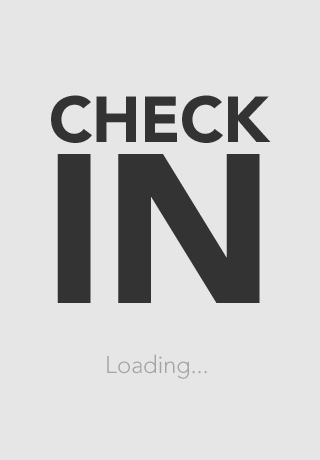
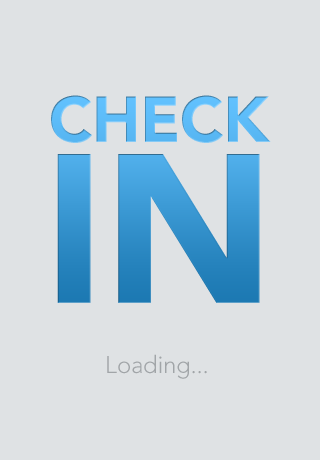
first shot at blue styling

Changed region(s): [[0.1562, 0.1826, 0.8438, 0.6696]]

diff --git a/public/css/style.css b/public/css/style.css
@@ -81,7 +81,7 @@ a:hover { color: #036; }
 
 body { -webkit-user-select: none; }
 
-header { background: #444; }
+header { background: #c3c7ca; }
 
 header h1 {
   color: #fff;
@@ -89,13 +89,48 @@ header h1 {
       linear,
       left top,
       left bottom,
-      color-stop(0, #434343),
-      color-stop(1, #232323)
+      color-stop(0, #419fda),
+      color-stop(0.5, #3790c7),
+      color-stop(0.5, #2386c4),
+      color-stop(1, #1c78b2)
   );
-  font-size: 22px;
+  font-size: 24px;
   line-height: 56px;
   text-align: center;
+  text-shadow: -1px -1px 0 #106091;
 }
+
+
+/*-- NAVIGATION --*/
+
+nav ul { text-align: center; }
+
+  nav ul li {
+    display: inline-block;
+    line-height: 32px;
+    text-align: center;
+    color: #efefef;
+    background: #a8adb0;
+    width: 30%;
+    font-size: 14px;
+    font-weight: bold;
+    margin-right: 1%;
+    margin-top: 0;
+    margin-bottom: 8px;
+    border-bottom-left-radius: 4px;
+    border-bottom-right-radius: 4px;
+    overflow: visible;
+  }
+  
+  nav ul li:last-child {margin-right: 0;}
+
+  nav ul li.active { 
+    color: #fff; 
+    background: #1c78b2; 
+    text-shadow: -1px -1px 0 #176ca1;
+    box-shadow: 0px 0px 3px #000;
+  }
+
 
 #main { position: relative; }
 
@@ -161,38 +196,11 @@ div.spinner div.bar8 {
 }
 
 
-/*-- NAVIGATION --*/
-
-nav ul { text-align: center; }
-
-  nav ul li {
-    display: inline-block;
-    line-height: 32px;
-    text-align: center;
-    color: #efefef;
-    background: #5d5d5d;
-    width: 30%;
-    font-size: 14px;
-    font-weight: bold;
-    margin-right: 1%;
-    margin-top: 0;
-    margin-bottom: 8px;
-    border-bottom-left-radius: 4px;
-    border-bottom-right-radius: 4px;
-  }
-  
-  nav ul li:last-child {margin-right: 0;}
-
-  nav ul li.active { 
-    background: #232323; 
-  }
-
-
 /*-- SEARCH AND SEARCH RESULTS --*/
 
 #search {
   padding: 6px 0;
-  background: #fbb03b;
+  background: #2386c4;
   text-align: center;
 }
 
@@ -204,7 +212,7 @@ nav ul { text-align: center; }
     line-height: 26px;
     background: #f9f9f9 url('../images/search32.png') no-repeat 10px center;
     -webkit-background-size: 16px 16px;
-    border: 1px solid #e99f2d;
+    border: 1px solid #2386c4;
     border-radius: 14px;
     padding: 0 12px 0 30px;
   }
@@ -284,11 +292,11 @@ ul.scope {
     display: inline-block;
     font-size: 12px;
     line-height: 36px;
-    background: #fbb03b;
-    color: #333;
+    background: #2386c4;
+    color: #fff;
     font-weight: bold;
     padding-left: 12px;
-    text-shadow: 1px 1px 0 #f7be65;
+    text-shadow: -1px -1px 0 #1c78b2;
     -webkit-box-shadow: 1px 1px 3px rgba(1,1,1,0.4);
     border-top-right-radius: 8px;
     border-bottom-right-radius: 8px;
@@ -297,7 +305,7 @@ ul.scope {
     ul.scope li .reset {
       display: inline-block; 
       float: right; 
-      color: #efefef;
+      color: #333;
       margin-left: 10px;
       text-transform: lowercase;
       font-size: 16px;
@@ -307,7 +315,7 @@ ul.scope {
       text-align: center;
     }
     
-    ul.scope li .reset.pressed { color: #333; }
+    ul.scope li .reset.pressed { color: #fff; }
 
 
 /*-- FULL-WIDTH LIST -*/
@@ -384,7 +392,7 @@ ul.wide_list {
   }
   
   ul.wide_list li .drawer {
-    background: #222;
+    background: #333;
     display: none;
     margin-left: -10px;
     padding: 0 20px;
@@ -403,9 +411,9 @@ ul.wide_list {
       border-radius: 6px;
       border: 1px solid #000;
       font-weight: bold;
-      line-height: 28px;
+      line-height: 30px;
       margin: 12px 0 12px 20px;
-      width: 86px;
+      width: 90px;
       text-align: center;
       font-size: 13px;
       text-shadow: 1px 1px 0 #eee;
@@ -479,11 +487,11 @@ ul.wide_list {
 h2 {
   font-size: 18px;
   line-height: 32px;
-  color: #efefef;
-  background: #333;
+  color: #fff;
+  background: #2386c4;
   width: 100%;
   text-indent: 8px;
-  /*text-transform: uppercase;*/
+  text-shadow: -1px -1px 0 #1c78b2;
 }
 
 #stats {
@@ -495,15 +503,15 @@ h2 {
 /*- SCHEDULE -*/
 
 #schedule_wrapper {
-  width: 320px;
+  width: 318px;
   border-left: 1px solid #333;
   border-right: 1px solid #333;
 }
 
 h3 {
-  color: #333;
+  color: #efefef;
   line-height: 24px;
-  background: #fbb03b;
+  background: #333;
   width: 100%;
   text-indent: 8px;
   font-weight: normal;
